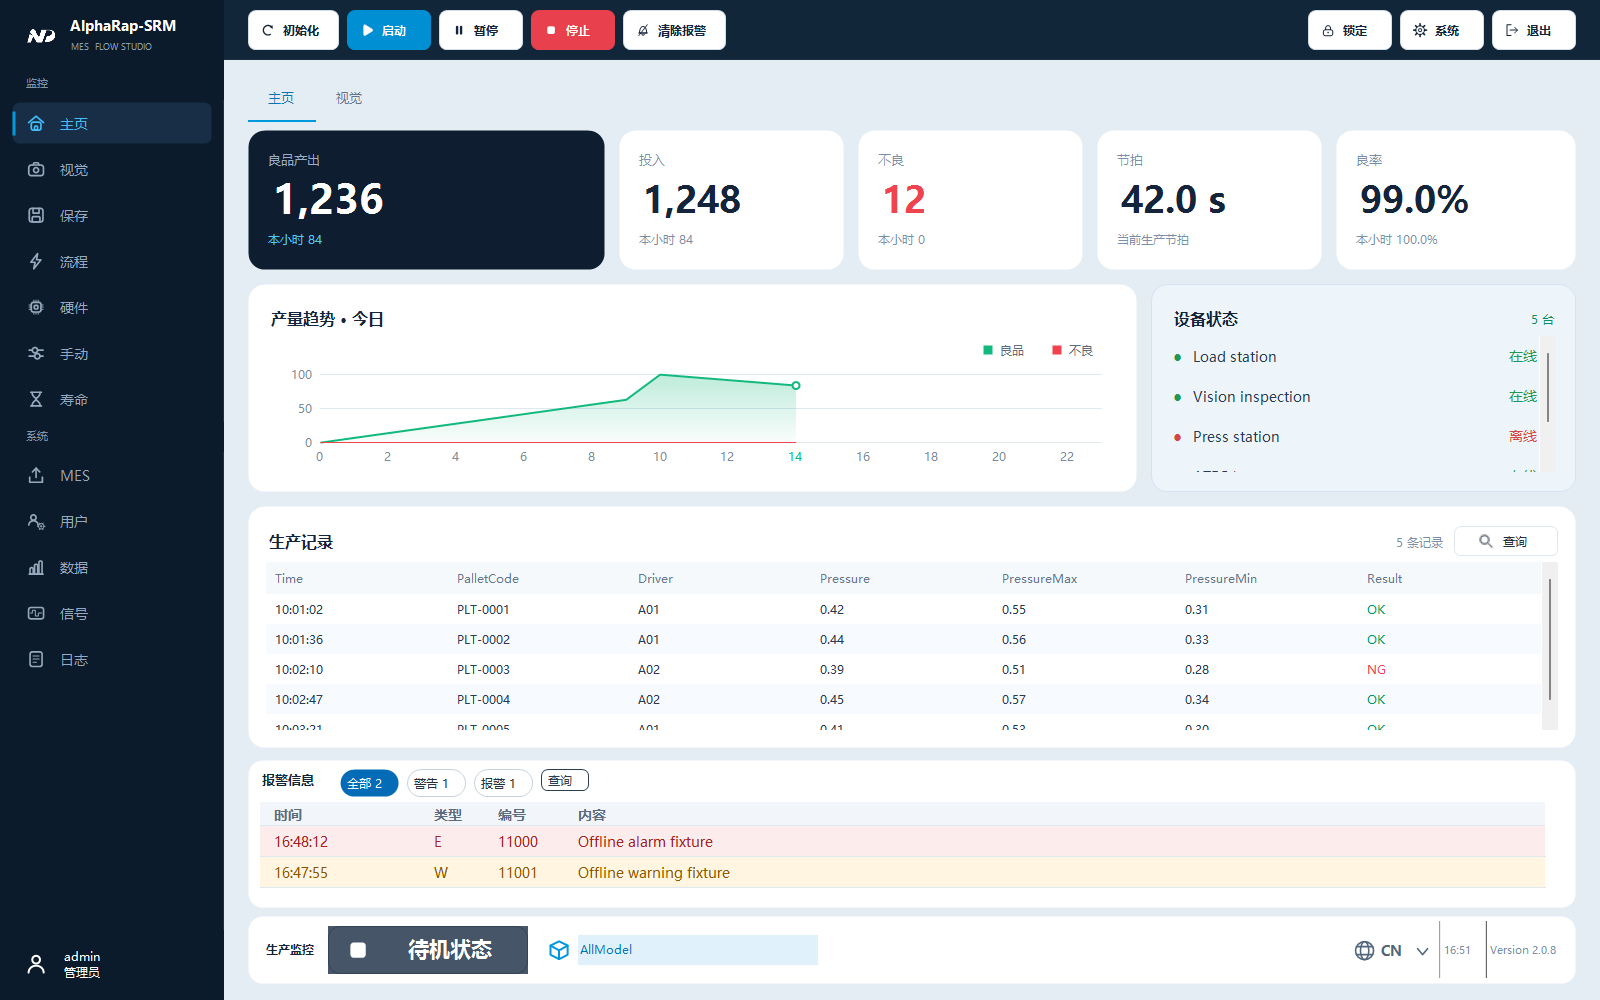
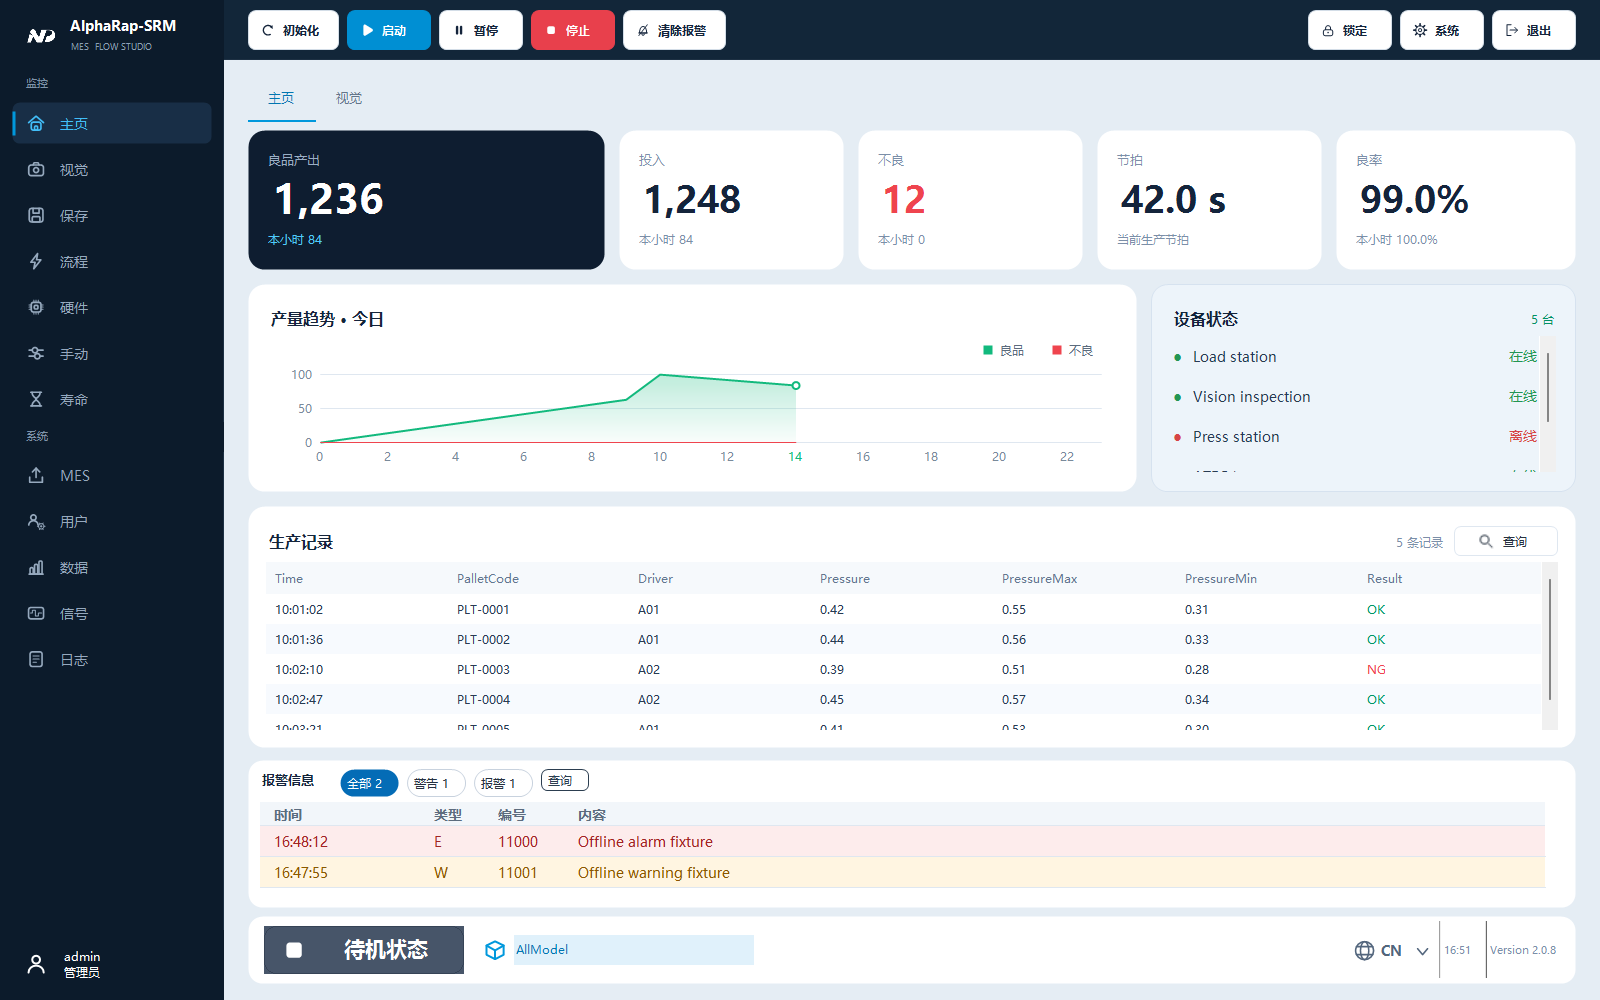
fix(ui): 移除底栏生产监控标题并左移状态和配方
删除底栏标题控件及中英西语言键，移除占位列，整机状态牌从底栏左侧开始，后接配方入口；更新界面说明及预览。

验证：Debug/x64 编译成功；三语言三尺寸 MainDashboard 回归 11/11，通过 42 页面 576 文本控件检查；语言检查 2109 键×3，0 错误。已替换原 Debug EXE/PDB，设备 DLL 与报警表哈希保持一致；未操作真实硬件。

Changed region(s): [[0.1562, 0.93, 0.375, 0.992], [0.4688, 0.93, 0.5312, 0.992]]

diff --git a/AlphaRap/MainForm.Designer.cs b/AlphaRap/MainForm.Designer.cs
@@ -108,7 +108,6 @@
             this.lblBrandCaption = new System.Windows.Forms.Label();
             this.lblMonitorGroup = new System.Windows.Forms.Label();
             this.lblSystemGroup = new System.Windows.Forms.Label();
-            this.lblDashboardCaption = new System.Windows.Forms.Label();
             this.alarmCard = new AlphaRap.CardPanel();
             this.lblAlarmTitle = new System.Windows.Forms.Label();
             ((System.ComponentModel.ISupportInitialize)(this.SettingData)).BeginInit();
@@ -439,21 +438,19 @@
             // tableLayoutPanel2
             // 
             this.tableLayoutPanel2.BackColor = System.Drawing.Color.White;
-            this.tableLayoutPanel2.ColumnCount = 7;
-            this.tableLayoutPanel2.ColumnStyles.Add(new System.Windows.Forms.ColumnStyle(System.Windows.Forms.SizeType.AutoSize));
+            this.tableLayoutPanel2.ColumnCount = 6;
             this.tableLayoutPanel2.ColumnStyles.Add(new System.Windows.Forms.ColumnStyle(System.Windows.Forms.SizeType.AutoSize));
             this.tableLayoutPanel2.ColumnStyles.Add(new System.Windows.Forms.ColumnStyle(System.Windows.Forms.SizeType.Absolute, 30F));
             this.tableLayoutPanel2.ColumnStyles.Add(new System.Windows.Forms.ColumnStyle(System.Windows.Forms.SizeType.Percent, 100F));
             this.tableLayoutPanel2.ColumnStyles.Add(new System.Windows.Forms.ColumnStyle(System.Windows.Forms.SizeType.Absolute, 34F));
             this.tableLayoutPanel2.ColumnStyles.Add(new System.Windows.Forms.ColumnStyle(System.Windows.Forms.SizeType.Absolute, 80F));
             this.tableLayoutPanel2.ColumnStyles.Add(new System.Windows.Forms.ColumnStyle(System.Windows.Forms.SizeType.AutoSize));
-            this.tableLayoutPanel2.Controls.Add(this.lblDashboardCaption, 0, 0);
-            this.tableLayoutPanel2.Controls.Add(this.MachineStatus, 1, 0);
-            this.tableLayoutPanel2.Controls.Add(this.MENU_Product, 2, 0);
-            this.tableLayoutPanel2.Controls.Add(this.lbRecipeName, 3, 0);
-            this.tableLayoutPanel2.Controls.Add(this.picVirtualKeyboard, 4, 0);
-            this.tableLayoutPanel2.Controls.Add(this.languageSwitch, 5, 0);
-            this.tableLayoutPanel2.Controls.Add(this.statusStrip2, 6, 0);
+            this.tableLayoutPanel2.Controls.Add(this.MachineStatus, 0, 0);
+            this.tableLayoutPanel2.Controls.Add(this.MENU_Product, 1, 0);
+            this.tableLayoutPanel2.Controls.Add(this.lbRecipeName, 2, 0);
+            this.tableLayoutPanel2.Controls.Add(this.picVirtualKeyboard, 3, 0);
+            this.tableLayoutPanel2.Controls.Add(this.languageSwitch, 4, 0);
+            this.tableLayoutPanel2.Controls.Add(this.statusStrip2, 5, 0);
             this.tableLayoutPanel2.Dock = System.Windows.Forms.DockStyle.Fill;
             this.tableLayoutPanel2.Margin = new System.Windows.Forms.Padding(0);
             this.tableLayoutPanel2.Name = "tableLayoutPanel2";
@@ -510,7 +507,7 @@
             this.MachineStatus.Font = new System.Drawing.Font("Microsoft YaHei UI", 16F, System.Drawing.FontStyle.Bold);
             this.MachineStatus.ForeColor = System.Drawing.Color.White;
             this.MachineStatus.Location = new System.Drawing.Point(1231, 2);
-            this.MachineStatus.Margin = new System.Windows.Forms.Padding(6, 5, 16, 5);
+            this.MachineStatus.Margin = new System.Windows.Forms.Padding(0, 5, 16, 5);
             this.MachineStatus.Padding = new System.Windows.Forms.Padding(60, 0, 16, 0);
             this.MachineStatus.Name = "MachineStatus_dyn";
             this.MachineStatus.Size = new System.Drawing.Size(200, 48);
@@ -1182,17 +1179,6 @@
             this.lblSystemGroup.Text = "系统";
             this.lblSystemGroup.TextAlign = System.Drawing.ContentAlignment.MiddleLeft;
             //
-            // lblDashboardCaption
-            //
-            this.lblDashboardCaption.AutoSize = true;
-            this.lblDashboardCaption.Dock = System.Windows.Forms.DockStyle.Fill;
-            this.lblDashboardCaption.ForeColor = System.Drawing.Color.FromArgb(20, 36, 59);
-            this.lblDashboardCaption.Font = new System.Drawing.Font("Microsoft YaHei UI", 9F, System.Drawing.FontStyle.Bold);
-            this.lblDashboardCaption.Margin = new System.Windows.Forms.Padding(0, 0, 4, 0);
-            this.lblDashboardCaption.Name = "lblDashboardCaption";
-            this.lblDashboardCaption.Text = "生产监控";
-            this.lblDashboardCaption.TextAlign = System.Drawing.ContentAlignment.MiddleLeft;
-            //
             // alarmCard
             //
             this.alarmCard.BackColor = System.Drawing.Color.White;
@@ -1301,7 +1287,6 @@
         private System.Windows.Forms.Label lblBrandCaption;
         private System.Windows.Forms.Label lblMonitorGroup;
         private System.Windows.Forms.Label lblSystemGroup;
-        private System.Windows.Forms.Label lblDashboardCaption;
         private AlphaRap.CardPanel alarmCard;
         private System.Windows.Forms.Label lblAlarmTitle;
         private System.Windows.Forms.Timer timer1;

diff --git a/AlphaRap/MainForm.Frame.cs b/AlphaRap/MainForm.Frame.cs
@@ -377,7 +377,6 @@ namespace AlphaRap
             _buttonTexts.Clear();
             lblMonitorGroup.Text = UiTheme.T("MainForm", "lblMonitorGroup", "监控", "MONITOR", "MONITORIZACIÓN");
             lblSystemGroup.Text = UiTheme.T("MainForm", "lblSystemGroup", "系统", "SYSTEM", "SISTEMA");
-            lblDashboardCaption.Text = UiTheme.T("MainForm", "lblDashboardCaption", "生产监控", "Production", "Producción");
             tabPage22.Text = UiTheme.T("MainForm", "tabPage22", "主页", "Home", "Inicio");
             tabPage10.Text = UiTheme.T("MainForm", "tabPage10", "视觉", "Vision", "Visión");
             lblAlarmTitle.Text = UiTheme.T("MainForm", "lblAlarmTitle", "报警信息", "Alarms", "Alarmas");

diff --git a/docs/DashboardRedesign.md b/docs/DashboardRedesign.md
@@ -18,7 +18,7 @@
 
 ## 整机状态牌
 
-底部整机状态采用最小 200×48 像素的色块、16pt 粗体文字及 32 像素图标，长状态文案自动加宽，最多占用 360 像素（均为 96 DPI 设计尺寸）。底栏预留相应高度，避免与配方和语言入口重叠。
+底栏从左侧的整机状态牌开始，后接配方入口和当前配方；移除原“生产监控”标题及其占位。整机状态采用最小 200×48 像素的色块、16pt 粗体文字及 32 像素图标，长状态文案自动加宽，最多占用 360 像素（均为 96 DPI 设计尺寸）。底栏预留相应高度，避免与配方和语言入口重叠。
 
 待机使用灰蓝底和方形图标，初始化使用蓝底和回转箭头，运行使用绿底和运行三角，暂停使用黄底和双竖线，报警使用红底白字和警示三角。E 类报警优先于运行模式显示，报警条数、悬停详情和点击返回首页的行为沿用原入口。文案仍使用现有中英西语言包；此显示样式无需额外保存配置。
 
@@ -66,7 +66,7 @@
 
 布局探针在设计模式构造实际窗体，解绑机器 Load 入口后显示测试窗口，检查三种语言、三个窗口尺寸、原操作事件、指标刷新和空数据，并生成截图。截图里的生产数据和设备清单属于离线测试样本。设备初始化、真实运动、IO 输出和相机采集仍需现场验证。
 
-文字巡检将 42 个应用页面及可无参创建的流程、配置编辑控件放入实际主框架，检查 577 个文本控件的浅底浅字和过小的交互字体。该检查覆盖仓库中可离线构造的页面；外部 VPP 编辑器及按现场配置创建的第三方控件仍应在实际运行时核对。
+文字巡检将 42 个应用页面及可无参创建的流程、配置编辑控件放入实际主框架，检查 576 个文本控件的浅底浅字和过小的交互字体。该检查覆盖仓库中可离线构造的页面；外部 VPP 编辑器及按现场配置创建的第三方控件仍应在实际运行时核对。
 
 状态牌验证覆盖待机、初始化中、初始化完成、运行、暂停、带条数报警和停止中的三语显示，检查文字完整性、底栏重叠和点击事件；另以隔离控制器调用实际状态刷新及语言切换入口，验证停止中恢复待机与四列表头、报警数据和现场自定义标题。测试不触发真实报警或设备操作。
 

diff --git a/tests/MainDashboard/README.md b/tests/MainDashboard/README.md
@@ -12,7 +12,7 @@
 
 实际语言入口回归注入旧的 `WarnningMessage_=Time` 键，验证四列独立标识、缺失列名回填、三语标题、原报警行对象与值保留，以及英文现场自定义标题继续生效。
 
-另外构造 42 个应用页面及可无参创建的流程、配置编辑控件，在实际主框架下检查 577 个文本控件，防止浅色背景继承白色文字、交互控件字体过小及轴点动选项遮挡右箭头。深色导航与品牌区保留浅色文字。外部 VPP 编辑器和现场动态第三方控件不属于离线构造覆盖范围。
+另外构造 42 个应用页面及可无参创建的流程、配置编辑控件，在实际主框架下检查 576 个文本控件，防止浅色背景继承白色文字、交互控件字体过小及轴点动选项遮挡右箭头。深色导航与品牌区保留浅色文字。外部 VPP 编辑器和现场动态第三方控件不属于离线构造覆盖范围。
 
 测试通过 LicenseContext 设计态构造窗体，显式解绑 MainForm_Load 后显示离线测试窗口。设备清单、生产数量及表格示例仅在测试实例中填充，不操作设备、不保存机器配置。
 
